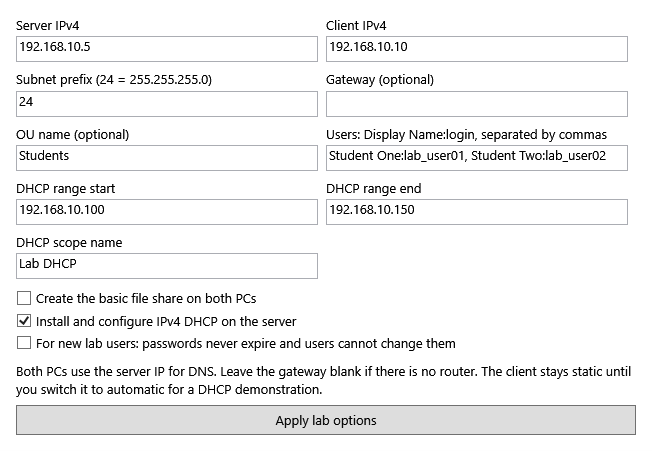
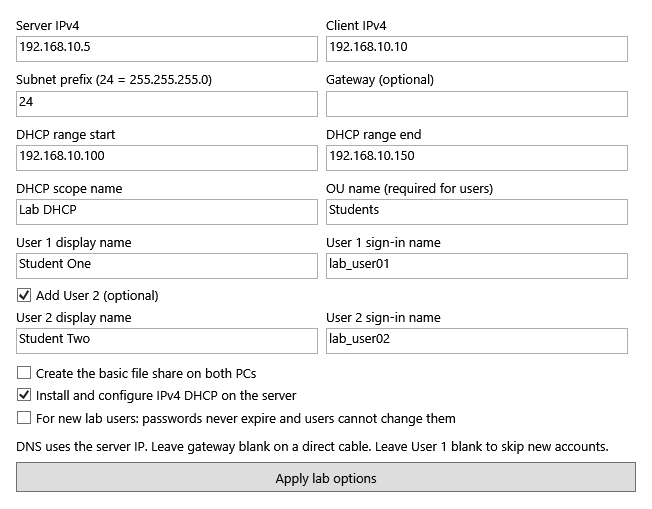
Make the second lab user optional and add an offline setup demo
Give each lab user separate display and sign-in fields, preserve existing profiles, and let operators rehearse the password prompts in a browser. Document the WMF 5.1 fix for Windows Server 2012 R2.

Changed region(s): [[0.0, 0.031, 0.9816, 0.9933]]

diff --git a/docs/demo.html b/docs/demo.html
@@ -1,0 +1,282 @@
+<!doctype html>
+<html lang="en">
+<head>
+  <meta charset="utf-8">
+  <meta name="viewport" content="width=device-width, initial-scale=1">
+  <title>P2P Server Client Setup · Interactive demo</title>
+  <style>
+    * { box-sizing: border-box; }
+    :root {
+      font: 16px/1.5 "Segoe UI", system-ui, sans-serif;
+      color: #13243a;
+      background: #eef3f8;
+      accent-color: #165ccc;
+    }
+    body { margin: 0; }
+    header { background: #142740; color: white; padding: 28px 24px; }
+    .wrap { width: min(100%, 1080px); margin: auto; }
+    h1, h2, h3, p { margin: 0; }
+    h1 { font-size: clamp(1.5rem, 4vw, 2.125rem); line-height: 1.2; }
+    h2 { font-size: 1.125rem; }
+    h3 { font-size: 1.25rem; line-height: 1.25; }
+    header p { color: #dae5f5; margin-top: 8px; }
+    main { padding: 20px 20px 32px; }
+    .layout { display: grid; grid-template-columns: minmax(0, 1.2fr) minmax(0, 1fr); gap: 16px; align-items: start; }
+    form { display: grid; gap: 12px; }
+    .card { background: white; border: 1px solid #c8d5e4; border-radius: 12px; padding: 16px; }
+    .grid { display: grid; grid-template-columns: repeat(2, minmax(0, 1fr)); gap: 8px 12px; margin-top: 10px; }
+    label { display: grid; gap: 3px; font-size: .875rem; font-weight: 600; }
+    input:not([type=checkbox]) {
+      min-width: 0; width: 100%; padding: 6px 9px; border: 1px solid #8194ad;
+      border-radius: 5px; font: inherit; font-weight: 400; color: inherit;
+    }
+    input:disabled { background: #eef3f8; border-color: #c8d5e4; color: #50647c; }
+    input[type=checkbox] { margin: 0; width: 16px; height: 16px; }
+    .check { display: flex; gap: 8px; align-items: center; width: fit-content; margin-top: 12px; }
+    .note { color: #435974; font-size: .875rem; margin-top: 6px; }
+    details { font-size: .875rem; }
+    summary { cursor: pointer; font-weight: 600; }
+    .preview { position: sticky; top: 16px; }
+    .actions { display: flex; flex-wrap: wrap; gap: 8px; margin-top: 14px; }
+    button {
+      background: #165ccc; color: white; border: 1px solid transparent; border-radius: 6px;
+      padding: 7px 12px; font: inherit; font-size: .875rem; font-weight: 600; cursor: pointer;
+    }
+    button:hover { background: #134ea9; }
+    button.secondary { color: #174b94; border-color: #a2b8d5; background: white; }
+    button.secondary:hover { background: #eaf2ff; }
+    :focus-visible { outline: 3px solid #245fba; outline-offset: 3px; }
+    .step { border-top: 1px solid #d4deea; margin-top: 16px; padding-top: 14px; }
+    .step h3 { margin-top: 4px; overflow-wrap: anywhere; }
+    .step p { margin-top: 8px; }
+    .status { font-size: .8125rem; font-weight: 600; color: #285487; }
+    .prompt { padding: 10px 12px; margin-top: 12px; border-radius: 6px; background: #142740; color: #fff; }
+    .prompt strong { display: block; overflow-wrap: anywhere; }
+    .prompt span { font-family: Consolas, monospace; letter-spacing: .14em; }
+    .error { margin-top: 10px; color: #a1242c; font-size: .875rem; font-weight: 600; }
+    @media (max-width: 760px) {
+      .layout { grid-template-columns: 1fr; }
+      .preview { position: static; }
+    }
+    @media (max-width: 400px) {
+      main { padding-inline: 12px; }
+      .grid { grid-template-columns: 1fr; }
+    }
+  </style>
+</head>
+<body>
+  <header>
+    <div class="wrap">
+      <h1>P2P Server Client Setup</h1>
+      <p>Interactive demo. No Windows settings change and no passwords are entered.</p>
+    </div>
+  </header>
+  <main class="wrap layout">
+    <form id="setup" autocomplete="off">
+      <section class="card" aria-labelledby="network-title">
+        <h2 id="network-title">Domain and network</h2>
+        <div class="grid">
+          <label>DNS domain <input name="domain" value="server.local" required></label>
+          <label>Short domain name <input name="shortName" value="SERVER" maxlength="15" required></label>
+          <label>Server IPv4 <input name="serverIP" value="192.168.10.5" required></label>
+          <label>Client IPv4 <input name="clientIP" value="192.168.10.10" required></label>
+          <label>Subnet prefix <input name="prefix" type="number" min="1" max="30" value="24" required></label>
+          <label>Gateway (optional) <input name="gateway" placeholder="Blank for direct cable"></label>
+        </div>
+        <p class="note">Both PCs use the server IPv4 for DNS.</p>
+      </section>
+      <section class="card" aria-labelledby="accounts-title">
+        <h2 id="accounts-title">Domain users</h2>
+        <div class="grid">
+          <label>OU name <input name="ou" value="Students" maxlength="64"></label>
+        </div>
+        <div class="grid">
+          <label>User 1 display name <input name="firstDisplay" value="Student One" maxlength="64"></label>
+          <label>User 1 sign-in name <input name="firstLogin" value="lab_user01" maxlength="20"></label>
+        </div>
+        <label class="check"><input type="checkbox" name="addSecond" aria-controls="second-user"> Add User 2 (optional)</label>
+        <div class="grid" id="second-user">
+          <label>User 2 display name <input name="secondDisplay" value="Student Two" maxlength="64" disabled></label>
+          <label>User 2 sign-in name <input name="secondLogin" value="lab_user02" maxlength="20" disabled></label>
+        </div>
+        <p class="note">Leave User 1 blank to skip new accounts. Each new user needs a password on the server.</p>
+      </section>
+      <details class="card">
+        <summary>Sharing and DHCP</summary>
+        <label class="check"><input type="checkbox" name="share" checked> Create the basic file share on both PCs</label>
+        <label class="check"><input type="checkbox" name="dhcp"> Install and configure IPv4 DHCP on the server</label>
+        <div class="grid">
+          <label>DHCP range start <input name="rangeStart" value="192.168.10.100"></label>
+          <label>DHCP range end <input name="rangeEnd" value="192.168.10.150"></label>
+        </div>
+        <p class="note">The client starts with its static IP even when DHCP is enabled.</p>
+      </details>
+    </form>
+    <section class="card preview" aria-labelledby="preview-title">
+      <h2 id="preview-title">Try a setup</h2>
+      <p class="note">Try server setup with User 2 off, then turn it on and run the preview again.</p>
+      <div class="actions">
+        <button type="submit" form="setup" value="server">Preview server setup</button>
+        <button type="submit" form="setup" value="client" class="secondary">Preview client setup</button>
+      </div>
+      <p id="error" class="error" role="alert" hidden></p>
+      <div id="step" class="step" hidden>
+        <div aria-live="polite" aria-atomic="true">
+          <div id="progress" class="status"></div>
+          <h3 id="step-title" tabindex="-1"></h3>
+          <p id="step-description"></p>
+          <div id="prompt" class="prompt" hidden>
+            <strong id="prompt-label"></strong>
+            <span aria-label="Sample masked password">••••••••</span>
+          </div>
+        </div>
+        <div class="actions">
+          <button id="back" type="button" class="secondary">Back</button>
+          <button id="next" type="button">Continue</button>
+        </div>
+      </div>
+    </section>
+  </main>
+  <script>
+    const form = document.querySelector("#setup");
+    const fields = form.elements;
+    const error = document.querySelector("#error");
+    const step = document.querySelector("#step");
+    const progress = document.querySelector("#progress");
+    const title = document.querySelector("#step-title");
+    const description = document.querySelector("#step-description");
+    const prompt = document.querySelector("#prompt");
+    const promptLabel = document.querySelector("#prompt-label");
+    const back = document.querySelector("#back");
+    const next = document.querySelector("#next");
+    let steps = [];
+    let index = 0;
+    let role = "server";
+
+    function syncSecondUser() {
+      fields.secondDisplay.disabled = !fields.addSecond.checked;
+      fields.secondLogin.disabled = !fields.addSecond.checked;
+    }
+
+    function readAccounts() {
+      const accounts = [];
+      for (const slot of ["first", "second"]) {
+        const second = slot === "second";
+        if (second && !fields.addSecond.checked) break;
+        const display = fields[slot + "Display"].value.trim();
+        const login = fields[slot + "Login"].value.trim();
+        if (!second && !display && !login) continue;
+        if (second && !accounts.length) throw new Error("Enter User 1 before adding User 2.");
+        const number = second ? 2 : 1;
+        if (!display || !login) throw new Error("Enter both names for User " + number + ".");
+        if (!/^[a-z0-9][a-z0-9 _-]{0,63}$/i.test(display) ||
+            !/^[a-z0-9][a-z0-9_.-]{0,19}$/i.test(login) ||
+            /^(administrator|guest|krbtgt|shareuser)$/i.test(login)) {
+          throw new Error("Check User " + number + ". Use a valid display name and a sign-in name of up to 20 characters.");
+        }
+        if (accounts.some(account => account.login.toLowerCase() === login.toLowerCase() ||
+          account.display.toLowerCase() === display.toLowerCase())) {
+          throw new Error("Use a different display name and sign-in name for User 2.");
+        }
+        accounts.push({ display, login });
+      }
+      if (accounts.length && !fields.ou.value.trim()) throw new Error("Enter an OU name before adding domain users.");
+      return accounts;
+    }
+
+    function buildSteps() {
+      const domain = fields.domain.value.trim();
+      const shortName = fields.shortName.value.trim().toUpperCase();
+      const admin = shortName + "\\Administrator";
+      const serverIP = fields.serverIP.value.trim();
+      const clientIP = fields.clientIP.value.trim();
+      const prefix = fields.prefix.value;
+      const gateway = fields.gateway.value.trim();
+      const network = "IPv4 " + (role === "server" ? serverIP : clientIP) + "/" + prefix +
+        " · DNS " + serverIP + " · " + (gateway ? "Gateway " + gateway : "No gateway");
+      const plan = [{ title: "Apply lab network settings", description: network }];
+
+      if (role === "server") {
+        const accounts = readAccounts();
+        plan.push(
+          { title: "Create the domain", description: "Install AD DS and DNS for " + domain + ". Choose a Directory Services Restore Mode recovery password.", prompt: "Create a DSRM recovery password" },
+          { title: "Restart and sign in", description: "Sign in as " + admin + " using the server’s existing Windows Administrator password." }
+        );
+        if (fields.dhcp.checked) {
+          plan.push({ title: "Configure IPv4 DHCP", description: "DHCP pool " + fields.rangeStart.value + " to " + fields.rangeEnd.value + "." });
+        }
+        const ou = fields.ou.value.trim();
+        if (ou) plan.push({ title: "Create the " + ou + " OU", description: accounts.length ? "New domain accounts go into this OU." : "No new domain accounts were selected." });
+        for (const account of accounts) {
+          plan.push({
+            title: "Set the password for " + account.display,
+            description: "Choose a password for this new domain account.",
+            prompt: shortName + "\\" + account.login
+          });
+        }
+        if (fields.share.checked) {
+          plan.push({ title: "Set the sharing password", description: "Choose a password for the new file-sharing account.", prompt: shortName + "\\shareuser" });
+        }
+      } else {
+        plan.push(
+          { title: "Join " + domain, description: "Use the server’s existing Administrator password to join from the client.", prompt: admin },
+          { title: "Restart and sign in", description: "Sign in as " + admin + " to finish client setup." }
+        );
+      }
+      const peer = role === "server" ? clientIP : serverIP;
+      plan.push({
+        title: role.toUpperCase() + " READY",
+        description: fields.share.checked
+          ? "Once both PCs are ready, open \\\\" + peer + "\\PCShare in File Explorer. Use " + shortName + "\\shareuser if asked."
+          : "The basic file share is turned off in this example."
+      });
+      return plan;
+    }
+
+    function showStep() {
+      const current = steps[index];
+      const last = index === steps.length - 1;
+      progress.textContent = (role === "server" ? "Server" : "Client") + " · Step " + (index + 1) + " of " + steps.length;
+      title.textContent = current.title;
+      description.textContent = current.description;
+      prompt.hidden = !current.prompt;
+      promptLabel.textContent = current.prompt || "";
+      back.hidden = index === 0;
+      next.textContent = last ? "Finish preview" : "Continue";
+      step.hidden = false;
+      title.focus();
+    }
+
+    syncSecondUser();
+    fields.addSecond.addEventListener("change", syncSecondUser);
+    form.addEventListener("submit", event => {
+      event.preventDefault();
+      role = event.submitter?.value || "server";
+      try {
+        steps = buildSteps();
+        error.hidden = true;
+        index = 0;
+        showStep();
+      } catch (problem) {
+        step.hidden = true;
+        error.textContent = problem.message;
+        error.hidden = false;
+        error.scrollIntoView({ block: "nearest" });
+      }
+    });
+    back.addEventListener("click", () => {
+      index -= 1;
+      showStep();
+    });
+    next.addEventListener("click", () => {
+      if (index === steps.length - 1) {
+        step.hidden = true;
+        document.querySelector('button[value="' + role + '"]').focus();
+        return;
+      }
+      index += 1;
+      showStep();
+    });
+  </script>
+</body>
+</html>

diff --git a/README.md b/README.md
@@ -44,12 +44,15 @@ P2P Server Client Setup is a Windows helper for an isolated two-PC networking la
 
 Create a disposable file in each remote share and check that it appears on the other PC. The shares are separate folders.
 
-For a custom network or classroom assessment, open **Lab options** before starting and use the same values on both PCs. See the [assessment walkthrough](docs/assessment.md) for sample settings, password prompt illustrations, and the manual Folder Redirection and Windows Server Backup steps.
+For a custom network or classroom assessment, open **Lab options** before starting and use the same values on both PCs. Enter User 1's display and sign-in names separately. Check **Add User 2 (optional)** only when you need a second account.
+
+Open [the offline demo](docs/demo.html) from the project folder in Edge, Chrome, or Firefox to try the server and client flows, including the password prompts. See the [assessment walkthrough](docs/assessment.md) for example settings and the manual Folder Redirection and Windows Server Backup steps.
 
 ## Troubleshooting
 
 | If you see | Try |
 | --- | --- |
+| PowerShell 4.0 on Windows Server 2012 R2 | On a connected PC, get `Win8.1AndW2K12R2-KB3191564-x64.msu` from [Microsoft's WMF 5.1 download](https://www.microsoft.com/en-us/download/details.aspx?id=54616). Transfer it to the server, install it and restart. Check `$PSVersionTable.PSVersion` in Windows PowerShell before reopening the helper. |
 | No Ethernet adapter | Check the cable and link lights, then click **Refresh**. |
 | Domain cannot be found | Confirm the server reached **SERVER READY** and both PCs use the same domain name. |
 | PC absent from Explorer Network | Open its direct address. Explorer discovery depends on Windows and the network. |

diff --git a/docs/assessment.md b/docs/assessment.md
@@ -17,7 +17,9 @@ Use two isolated PCs connected directly by crossover UTP. The helper replaces IP
 | Subnet prefix | `24` for `255.255.255.0` |
 | DNS | Both PCs use the server IPv4 address automatically |
 | Gateway | Blank on a direct cable. Enter `192.168.10.1` if the rubric explicitly requires it. |
-| OU and users | `Students` and `Student One:lab_user01, Student Two:lab_user02`. Use the assigned names and logins. |
+| OU name | `Students` |
+| User 1 | Display name `Student One`, sign-in name `lab_user01` |
+| User 2 | Check **Add User 2 (optional)** if required. Display name `Student Two`, sign-in name `lab_user02`. |
 | DHCP | Enable if required. Enter the assigned scope name and range, e.g. `192.168.10.100` to `192.168.10.150`. |
 | Basic sharing | Optional. Folder redirection uses its own dedicated share. |
 | Lab password rules | Enable only for new lab accounts if both password settings are required. |
@@ -25,6 +27,8 @@ Use two isolated PCs connected directly by crossover UTP. The helper replaces IP
 Click **Apply lab options** and **Set up server**. Starting setup saves the options locally. Use the same USB on the client and confirm the same domain, address settings, and options before clicking **Set up client**.
 
 ## Password prompts
+
+Open [the offline demo](demo.html) in a browser to compare the one-user and two-user server flows, or practice joining from the client.
 
 ![Illustration of masked DSRM, lab user, share account, and domain join prompts](password-prompts.png)
 
